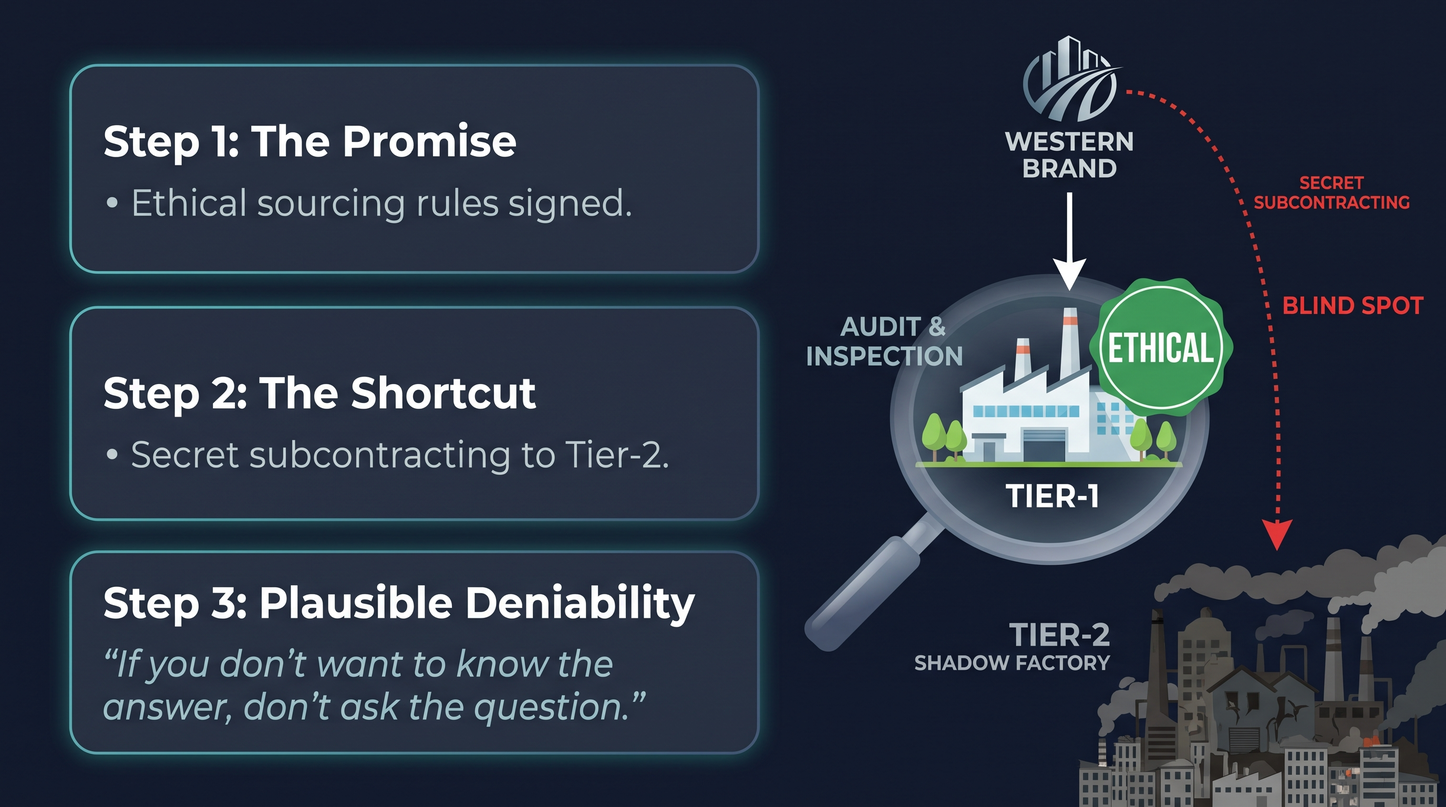
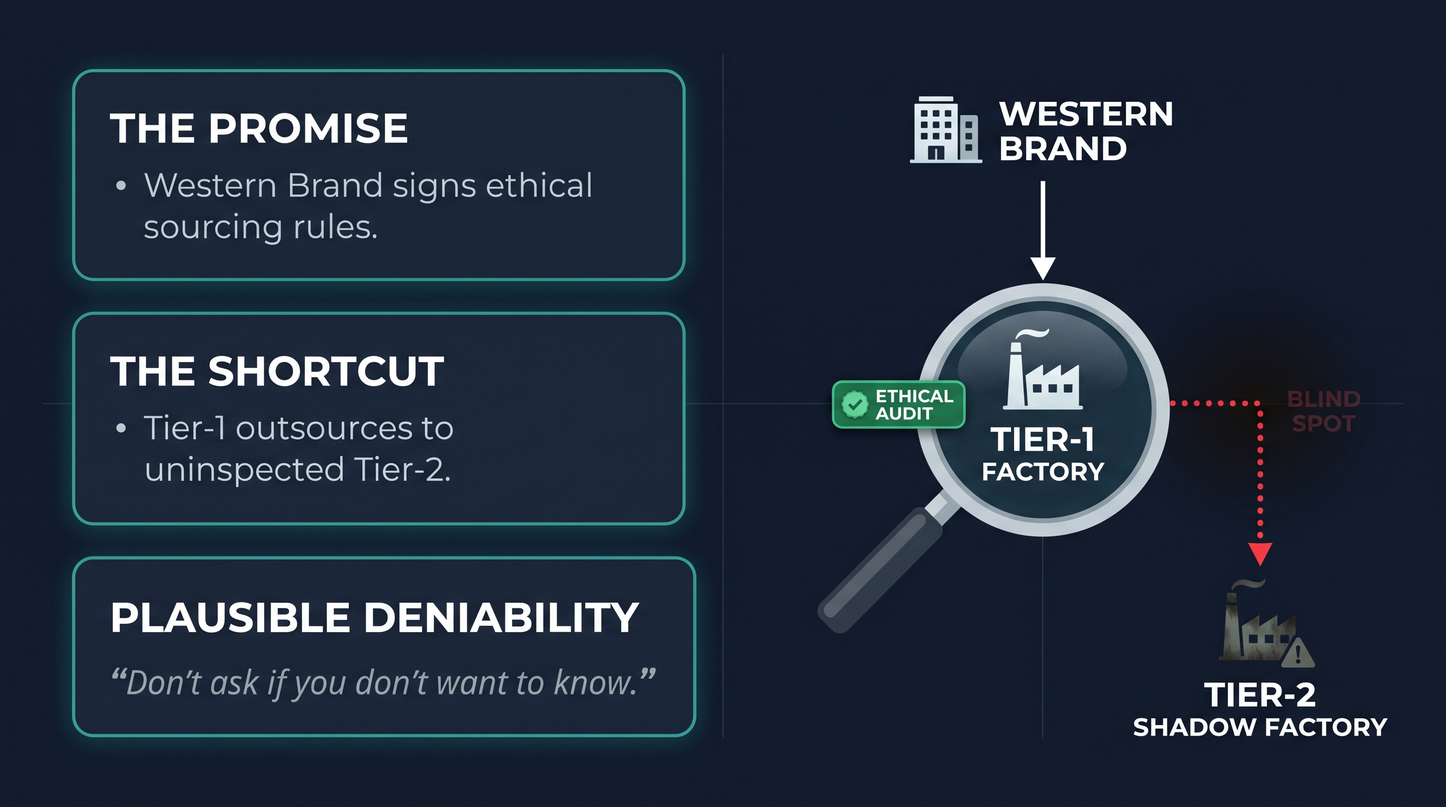
Fix Slide 4 arrow: Tier-1 Factory to Tier-2 Shadow Factory

diff --git a/Citizenship 9/Cit9_Made_In_Bangladesh_Deck.html b/Citizenship 9/Cit9_Made_In_Bangladesh_Deck.html
@@ -32,7 +32,7 @@
 </head>
 <body>
 <div class="topbar"><span class="badge">Room 8</span><span id="phase"></span></div>
-<section class="slide active" data-phase="Hook"><div class="slide-head"><div class="kicker">Global Citizenship Unit 6A</div><h1>Where Is Your Friend&#x27;s Shirt Made?</h1></div><div class="main-split"><div class="col-stack"><div class="st-card teal"><div class="card-tag">Activity</div><div class="card-title">Label Check</div><ul class="st-list"><li>Check partner&#x27;s hoodie tag.</li><li>Share country of origin.</li></ul></div><div class="st-card coral"><div class="card-tag">Discussion</div><div class="card-title">Share Out Loud</div><ul class="st-list"><li>Compare findings with class.</li><li>Note common manufacturing hubs.</li></ul></div><div class="st-card amber"><div class="card-tag">Question</div><div class="card-title">Today&#x27;s Question</div><ul class="st-list"><li>How does a shirt travel?</li><li>Why is it so cheap?</li></ul></div></div><div class="visual-box"><div class="v-tag">Visual / Diagram</div><p>Illustration of two students holding up clothing tags, with a world map background showing flight paths from Asia to Canada.</p></div></div></section><section class="slide" data-phase="Analysis"><div class="slide-head"><div class="kicker">Labor Economics</div><h1>Who Makes the World&#x27;s Clothes?</h1></div><div class="main-split"><div class="col-stack"><div class="st-card emerald"><div class="card-tag">Wages</div><div class="card-title">Bangladesh Garment Wage</div><ul class="st-list"><li>0.68 CAD per hour.</li><li>Low monthly income.</li></ul></div><div class="st-card teal"><div class="card-tag">Comparison</div><div class="card-title">Nova Scotia Minimum</div><ul class="st-list"><li>15.50 CAD per hour.</li><li>24x higher wage rate.</li></ul></div><div class="st-card coral"><div class="card-tag">Map</div><div class="card-title">Top Producers</div><ul class="st-list"><li>China, Bangladesh, Vietnam.</li><li>India highlighted in red.</li></ul></div></div><div class="visual-box"><div class="v-tag">Visual / Diagram</div><p>Split screen: Left side shows a bar chart comparing wages. Right side displays a world map with China, Bangladesh, Vietnam, and India highlighted in bold red.</p></div></div></section><section class="slide" data-phase="Logistics"><div class="slide-head"><div class="kicker">Supply Chain</div><h1>Shipping Costs Pennies, Labour Drives the Price</h1></div><div class="main-split"><div class="col-stack"><div class="st-card amber"><div class="card-tag">Container Freight</div><div class="card-title">40-Foot Container (Dhaka to Halifax)</div><ul class="st-list"><li>60,000 shirts per container.</li><li>~$6,200 CAD freight = $0.10/shirt.</li></ul></div><div class="st-card teal"><div class="card-tag">Made in Bangladesh</div><div class="card-title">Labour + Shipping: $0.27 CAD</div><ul class="st-list"><li>Labour: ~$0.17 CAD (15 min @ $0.68/hr).</li><li>Ocean shipping: $0.10 CAD/shirt.</li></ul></div><div class="st-card coral"><div class="card-tag">Made in Canada</div><div class="card-title">Labour + Shipping: $4.18 CAD</div><ul class="st-list"><li>Labour: ~$4.13 CAD (15 min @ $16.50/hr).</li><li>Local truck shipping: ~$0.05 CAD/shirt.</li></ul></div></div><div class="visual-box"><div class="v-tag">Visual / Diagram</div><p>Dhaka to Halifax ocean freight arc ($0.10/shirt) paired with a stacked bar chart comparing total per-shirt cost: Bangladesh ($0.27 total: $0.17 labour + $0.10 shipping) vs. Canada ($4.18 total: $4.13 labour + $0.05 shipping).</p></div></div></section><section class="slide" data-phase="Accountability"><div class="slide-head"><div class="kicker">Supply Chain Blind Spots</div><h1>Ethical Promises vs. Subcontracted Reality</h1></div><div class="main-split"><div class="col-stack"><div class="st-card teal"><div class="card-tag">Step 1: The Promise</div><div class="card-title">Western Brand Contract</div><ul class="st-list"><li>Signs ethical sourcing rules.</li><li>Inspects approved Tier-1 factory.</li></ul></div><div class="st-card amber"><div class="card-tag">Step 2: The Shortcut</div><div class="card-title">Secret Subcontracting</div><ul class="st-list"><li>Tier-1 outsources to Tier-2.</li><li>Unsafe, uninspected shadow factory.</li></ul></div><div class="st-card coral"><div class="card-tag">Step 3: Plausible Deniability</div><div class="card-title">The Shield</div><ul class="st-list"><li>&quot;If you don&#x27;t want to know the answer,</li><li>don&#x27;t ask the question.&quot;</li></ul></div></div><div class="visual-box"><div class="v-tag">Visual / Diagram</div><p>Flowchart showing a Western Brand inspecting an approved Tier-1 factory (clean, audited, ethical badge), while a hidden dotted arrow sends overflow orders to an uninspected Tier-2 shadow factory (crowded, unsafe). A magnifying glass stops at Tier-1 with the quote: &quot;If you don&#x27;t want to know the answer, don&#x27;t ask the question.&quot;</p></div></div></section>
+<section class="slide active" data-phase="Hook"><div class="slide-head"><div class="kicker">Global Citizenship Unit 6A</div><h1>Where Is Your Friend&#x27;s Shirt Made?</h1></div><div class="main-split"><div class="col-stack"><div class="st-card teal"><div class="card-tag">Activity</div><div class="card-title">Label Check</div><ul class="st-list"><li>Check partner&#x27;s hoodie tag.</li><li>Share country of origin.</li></ul></div><div class="st-card coral"><div class="card-tag">Discussion</div><div class="card-title">Share Out Loud</div><ul class="st-list"><li>Compare findings with class.</li><li>Note common manufacturing hubs.</li></ul></div><div class="st-card amber"><div class="card-tag">Question</div><div class="card-title">Today&#x27;s Question</div><ul class="st-list"><li>How does a shirt travel?</li><li>Why is it so cheap?</li></ul></div></div><div class="visual-box"><div class="v-tag">Visual / Diagram</div><p>Illustration of two students holding up clothing tags, with a world map background showing flight paths from Asia to Canada.</p></div></div></section><section class="slide" data-phase="Analysis"><div class="slide-head"><div class="kicker">Labor Economics</div><h1>Who Makes the World&#x27;s Clothes?</h1></div><div class="main-split"><div class="col-stack"><div class="st-card emerald"><div class="card-tag">Wages</div><div class="card-title">Bangladesh Garment Wage</div><ul class="st-list"><li>0.68 CAD per hour.</li><li>Low monthly income.</li></ul></div><div class="st-card teal"><div class="card-tag">Comparison</div><div class="card-title">Nova Scotia Minimum</div><ul class="st-list"><li>15.50 CAD per hour.</li><li>24x higher wage rate.</li></ul></div><div class="st-card coral"><div class="card-tag">Map</div><div class="card-title">Top Producers</div><ul class="st-list"><li>China, Bangladesh, Vietnam.</li><li>India highlighted in red.</li></ul></div></div><div class="visual-box"><div class="v-tag">Visual / Diagram</div><p>Split screen: Left side shows a bar chart comparing wages. Right side displays a world map with China, Bangladesh, Vietnam, and India highlighted in bold red.</p></div></div></section><section class="slide" data-phase="Logistics"><div class="slide-head"><div class="kicker">Supply Chain</div><h1>Shipping Costs Pennies, Labour Drives the Price</h1></div><div class="main-split"><div class="col-stack"><div class="st-card amber"><div class="card-tag">Container Freight</div><div class="card-title">40-Foot Container (Dhaka to Halifax)</div><ul class="st-list"><li>60,000 shirts per container.</li><li>~$6,200 CAD freight = $0.10/shirt.</li></ul></div><div class="st-card teal"><div class="card-tag">Made in Bangladesh</div><div class="card-title">Labour + Shipping: $0.27 CAD</div><ul class="st-list"><li>Labour: ~$0.17 CAD (15 min @ $0.68/hr).</li><li>Ocean shipping: $0.10 CAD/shirt.</li></ul></div><div class="st-card coral"><div class="card-tag">Made in Canada</div><div class="card-title">Labour + Shipping: $4.18 CAD</div><ul class="st-list"><li>Labour: ~$4.13 CAD (15 min @ $16.50/hr).</li><li>Local truck shipping: ~$0.05 CAD/shirt.</li></ul></div></div><div class="visual-box"><div class="v-tag">Visual / Diagram</div><p>Dhaka to Halifax ocean freight arc ($0.10/shirt) paired with a stacked bar chart comparing total per-shirt cost: Bangladesh ($0.27 total: $0.17 labour + $0.10 shipping) vs. Canada ($4.18 total: $4.13 labour + $0.05 shipping).</p></div></div></section><section class="slide" data-phase="Accountability"><div class="slide-head"><div class="kicker">Supply Chain Blind Spots</div><h1>Ethical Promises vs. Subcontracted Reality</h1></div><div class="main-split"><div class="col-stack"><div class="st-card teal"><div class="card-tag">Step 1: The Promise</div><div class="card-title">Western Brand Contract</div><ul class="st-list"><li>Signs ethical sourcing rules.</li><li>Inspects approved Tier-1 factory.</li></ul></div><div class="st-card amber"><div class="card-tag">Step 2: The Shortcut</div><div class="card-title">Secret Subcontracting</div><ul class="st-list"><li>Tier-1 outsources to Tier-2.</li><li>Unsafe, uninspected shadow factory.</li></ul></div><div class="st-card coral"><div class="card-tag">Step 3: Plausible Deniability</div><div class="card-title">The Shield</div><ul class="st-list"><li>&quot;If you don&#x27;t want to know the answer,</li><li>don&#x27;t ask the question.&quot;</li></ul></div></div><div class="visual-box"><div class="v-tag">Visual / Diagram</div><p>Flowchart with three nodes: (1) WESTERN BRAND at top connects ONLY by a solid white arrow to (2) TIER-1 APPROVED FACTORY inside a magnifying glass (labelled AUDIT &amp; INSPECTION, green ETHICAL badge). Then from TIER-1 APPROVED FACTORY itself (NOT from Western Brand), a red dotted arrow labelled SECRET SUBCONTRACTING branches out behind the magnifying glass into a dark BLIND SPOT down to (3) TIER-2 SHADOW FACTORY (unsafe, uninspected factory).</p></div></div></section>
 <div class="footer">
   <span id="ctr">01 / 01</span>
   <div style="display:flex;gap:8px;align-items:center;">
